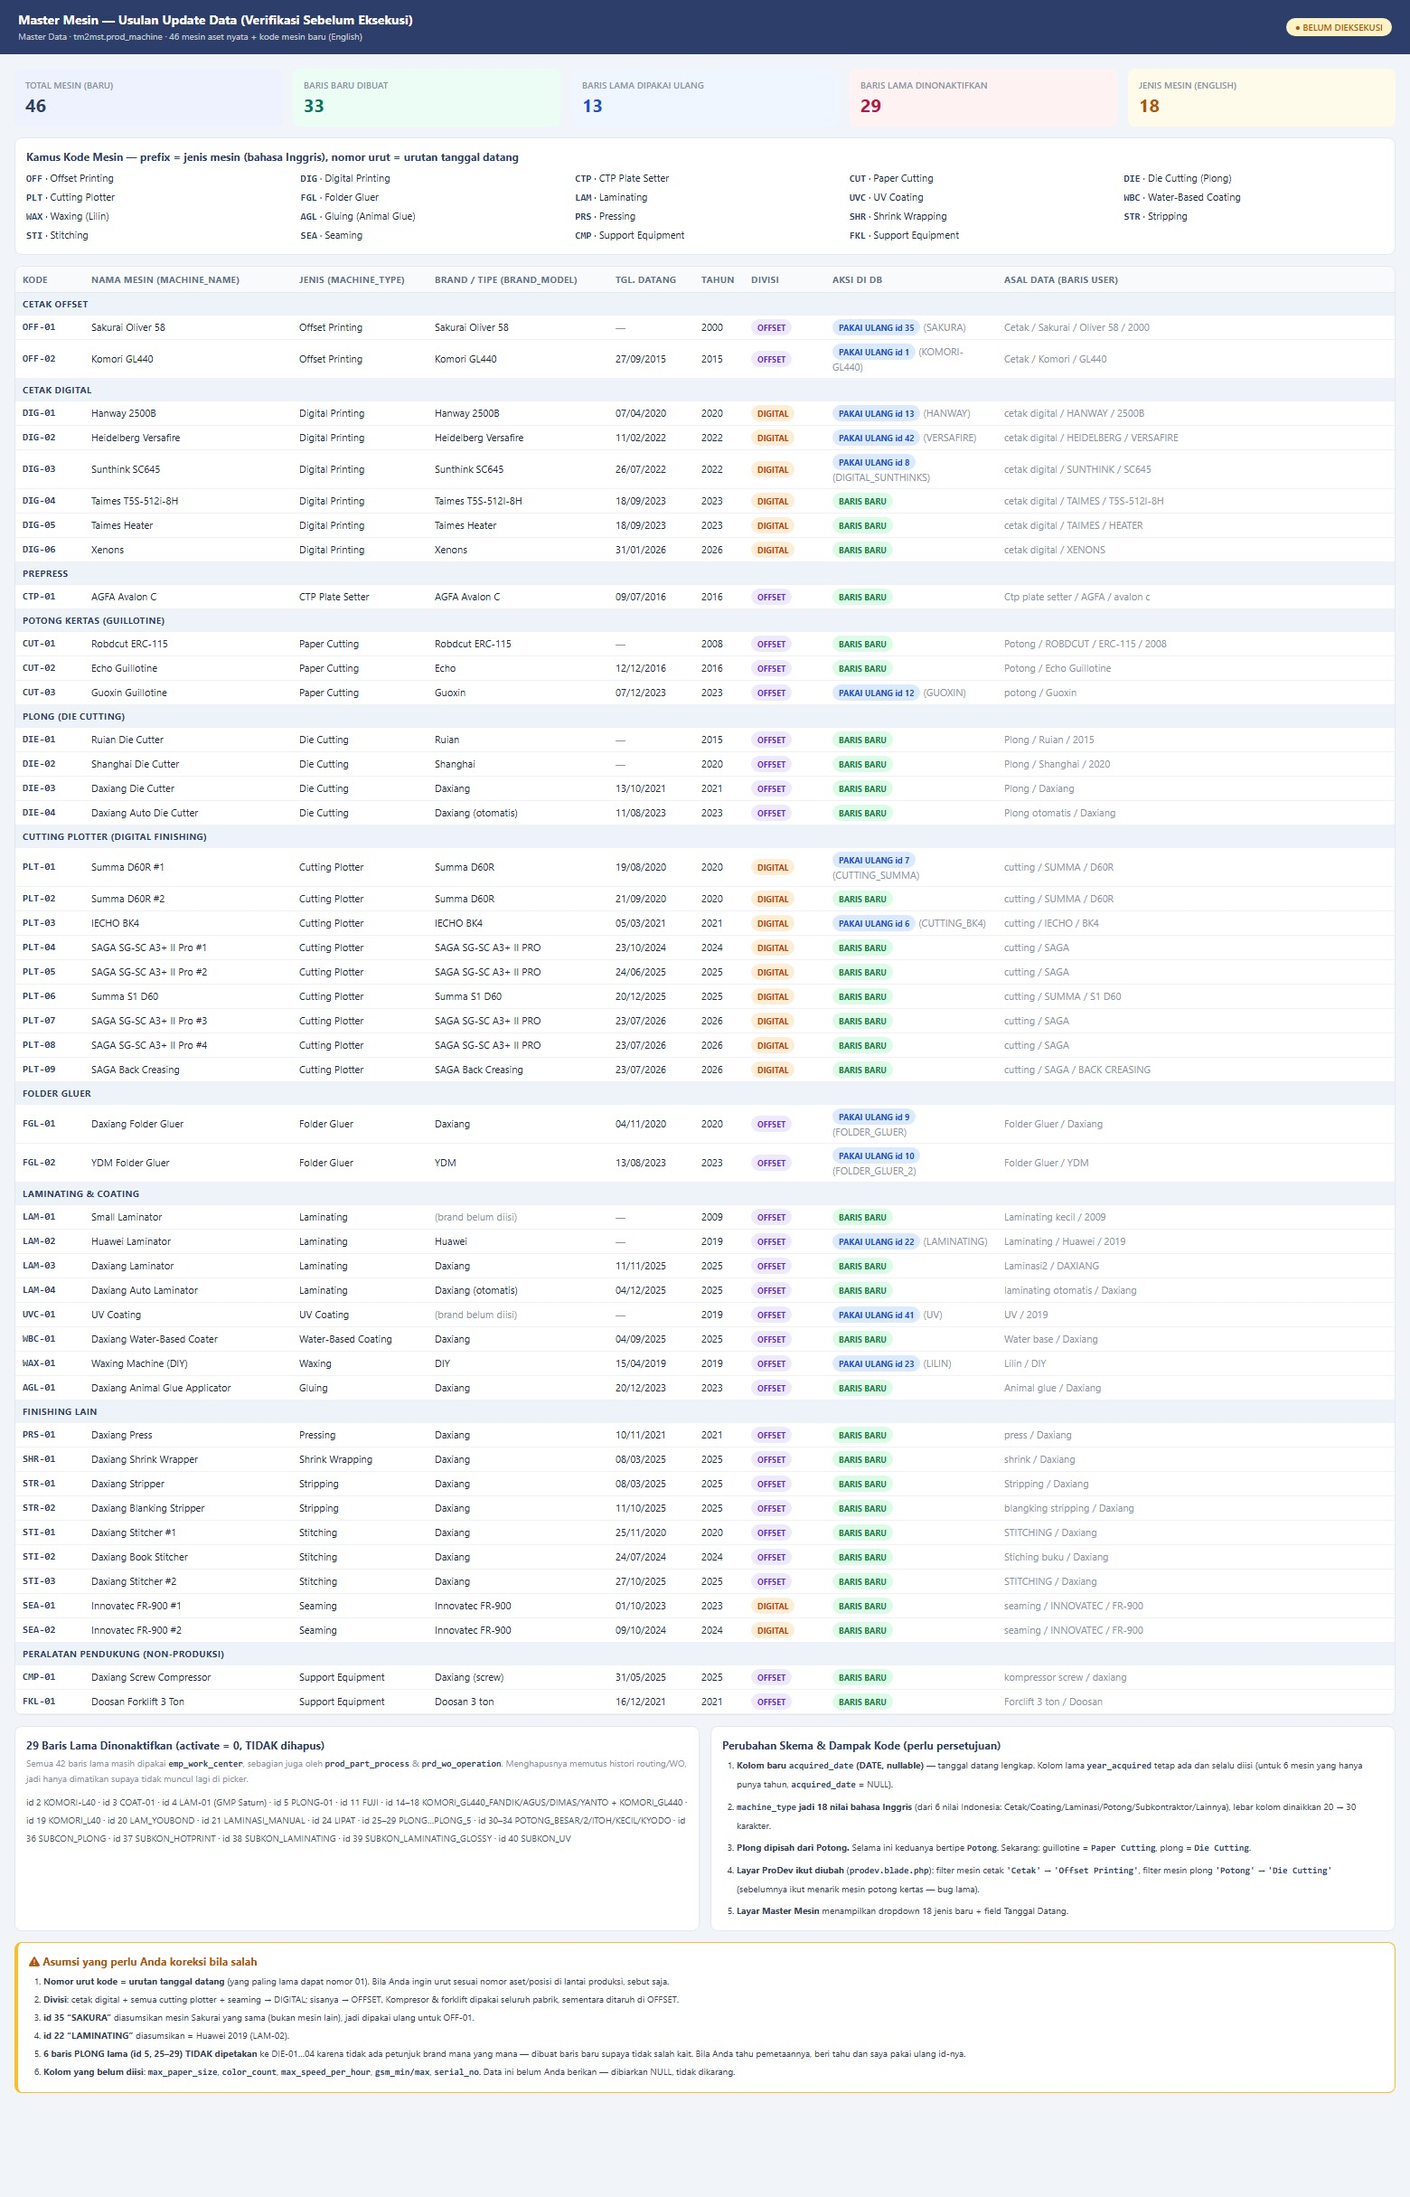
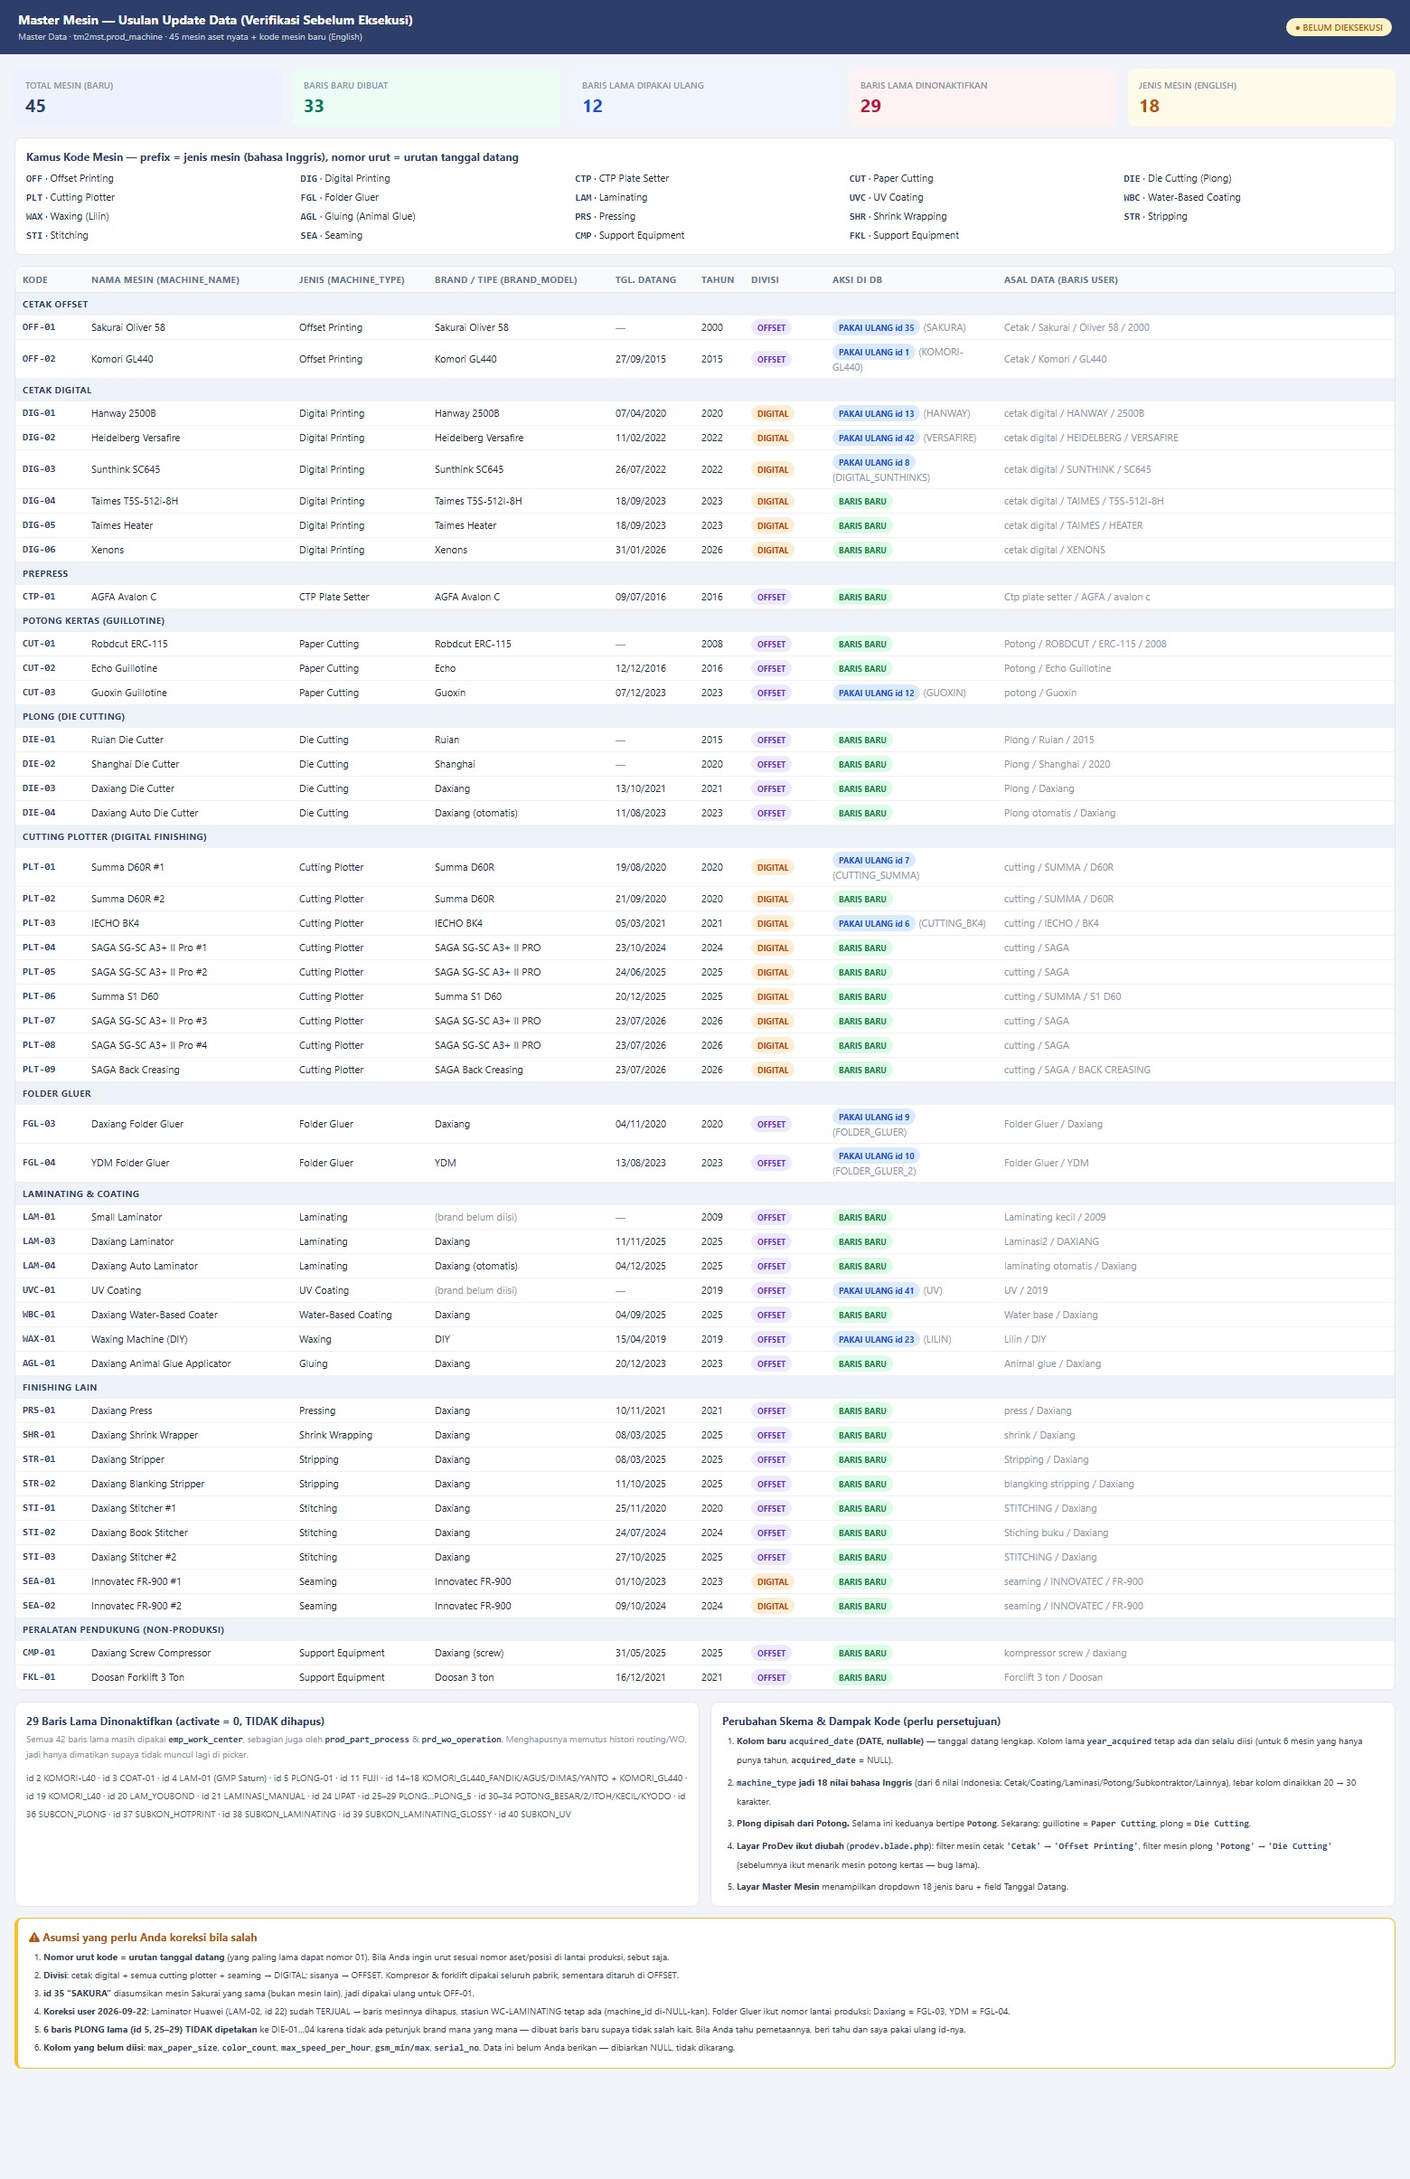
Master Mesin: koreksi Huawei terjual + Folder Gluer FGL-03/04 + kolom grid
- Laminator Huawei (LAM-02) sudah terjual -> baris mesinnya dihapus. Tidak
  ada routing/rate/WO yang merujuknya; 1 emp_work_center (WC-LAMINATING) +
  48 baris emp_shift_roster di-NULL-kan machine_id-nya supaya stasiunnya
  tetap hidup lewat work_center_id. Penomoran LAM lain tidak digeser.
- Folder Gluer ikut nomor lantai produksi: Daxiang FGL-03, YDM FGL-04.
- Grid Master Mesin: tambah kolom Tahun + Divisi (badge OFFSET/DIGITAL)
  menyamakan dengan mockup. Kode tetap di kolom identitas avatar+nama+kode
  sesuai griduistandard.md.
- Mockup acuan docs/mockups/master_mesin_update_2026 ikut disesuaikan.

diff --git a/docs/mockups/master_mesin_update_2026.html b/docs/mockups/master_mesin_update_2026.html
@@ -31,7 +31,7 @@
 <header class="bg-navy text-white px-5 py-3 flex items-center gap-3.5">
   <div>
     <div class="text-sm font-bold">Master Mesin &mdash; Usulan Update Data (Verifikasi Sebelum Eksekusi)</div>
-    <div class="text-[10px] opacity-70">Master Data &middot; tm2mst.prod_machine &middot; 46 mesin aset nyata + kode mesin baru (English)</div>
+    <div class="text-[10px] opacity-70">Master Data &middot; tm2mst.prod_machine &middot; 45 mesin aset nyata + kode mesin baru (English)</div>
   </div>
   <div class="ml-auto flex items-center gap-3">
     <span class="px-2.5 py-0.5 rounded-full text-[10px] font-semibold bg-amber-100 text-amber-700">&#9679; BELUM DIEKSEKUSI</span>
@@ -42,9 +42,9 @@
 
   <!-- Statistik pastel (griduistandard.md) -->
   <div class="grid grid-cols-5 gap-3">
-    <div class="stat bg-[#eef2ff]"><div class="text-[10px] text-muted font-semibold uppercase">Total Mesin (Baru)</div><div class="text-xl font-bold text-navy">46</div></div>
+    <div class="stat bg-[#eef2ff]"><div class="text-[10px] text-muted font-semibold uppercase">Total Mesin (Baru)</div><div class="text-xl font-bold text-navy">45</div></div>
     <div class="stat bg-[#ecfdf5]"><div class="text-[10px] text-muted font-semibold uppercase">Baris Baru Dibuat</div><div class="text-xl font-bold text-emerald-700">33</div></div>
-    <div class="stat bg-[#eff6ff]"><div class="text-[10px] text-muted font-semibold uppercase">Baris Lama Dipakai Ulang</div><div class="text-xl font-bold text-blue-700">13</div></div>
+    <div class="stat bg-[#eff6ff]"><div class="text-[10px] text-muted font-semibold uppercase">Baris Lama Dipakai Ulang</div><div class="text-xl font-bold text-blue-700">12</div></div>
     <div class="stat bg-[#fef2f2]"><div class="text-[10px] text-muted font-semibold uppercase">Baris Lama Dinonaktifkan</div><div class="text-xl font-bold text-rose-700">29</div></div>
     <div class="stat bg-[#fffbeb]"><div class="text-[10px] text-muted font-semibold uppercase">Jenis Mesin (English)</div><div class="text-xl font-bold text-amber-700">18</div></div>
   </div>
@@ -130,12 +130,11 @@
         <tr><td class="code">PLT-09</td><td>SAGA Back Creasing</td><td>Cutting Plotter</td><td>SAGA Back Creasing</td><td>23/07/2026</td><td>2026</td><td><span class="badge b-dig">DIGITAL</span></td><td><span class="badge b-new">BARIS BARU</span></td><td class="text-muted">cutting / SAGA / BACK CREASING</td></tr>
 
         <tr class="grp"><td colspan="9">Folder Gluer</td></tr>
-        <tr><td class="code">FGL-01</td><td>Daxiang Folder Gluer</td><td>Folder Gluer</td><td>Daxiang</td><td>04/11/2020</td><td>2020</td><td><span class="badge b-off">OFFSET</span></td><td><span class="badge b-reuse">PAKAI ULANG id 9</span> <span class="text-muted">(FOLDER_GLUER)</span></td><td class="text-muted">Folder Gluer / Daxiang</td></tr>
-        <tr><td class="code">FGL-02</td><td>YDM Folder Gluer</td><td>Folder Gluer</td><td>YDM</td><td>13/08/2023</td><td>2023</td><td><span class="badge b-off">OFFSET</span></td><td><span class="badge b-reuse">PAKAI ULANG id 10</span> <span class="text-muted">(FOLDER_GLUER_2)</span></td><td class="text-muted">Folder Gluer / YDM</td></tr>
+        <tr><td class="code">FGL-03</td><td>Daxiang Folder Gluer</td><td>Folder Gluer</td><td>Daxiang</td><td>04/11/2020</td><td>2020</td><td><span class="badge b-off">OFFSET</span></td><td><span class="badge b-reuse">PAKAI ULANG id 9</span> <span class="text-muted">(FOLDER_GLUER)</span></td><td class="text-muted">Folder Gluer / Daxiang</td></tr>
+        <tr><td class="code">FGL-04</td><td>YDM Folder Gluer</td><td>Folder Gluer</td><td>YDM</td><td>13/08/2023</td><td>2023</td><td><span class="badge b-off">OFFSET</span></td><td><span class="badge b-reuse">PAKAI ULANG id 10</span> <span class="text-muted">(FOLDER_GLUER_2)</span></td><td class="text-muted">Folder Gluer / YDM</td></tr>
 
         <tr class="grp"><td colspan="9">Laminating &amp; Coating</td></tr>
         <tr><td class="code">LAM-01</td><td>Small Laminator</td><td>Laminating</td><td class="text-muted">(brand belum diisi)</td><td class="text-muted">&mdash;</td><td>2009</td><td><span class="badge b-off">OFFSET</span></td><td><span class="badge b-new">BARIS BARU</span></td><td class="text-muted">Laminating kecil / 2009</td></tr>
-        <tr><td class="code">LAM-02</td><td>Huawei Laminator</td><td>Laminating</td><td>Huawei</td><td class="text-muted">&mdash;</td><td>2019</td><td><span class="badge b-off">OFFSET</span></td><td><span class="badge b-reuse">PAKAI ULANG id 22</span> <span class="text-muted">(LAMINATING)</span></td><td class="text-muted">Laminating / Huawei / 2019</td></tr>
         <tr><td class="code">LAM-03</td><td>Daxiang Laminator</td><td>Laminating</td><td>Daxiang</td><td>11/11/2025</td><td>2025</td><td><span class="badge b-off">OFFSET</span></td><td><span class="badge b-new">BARIS BARU</span></td><td class="text-muted">Laminasi2 / DAXIANG</td></tr>
         <tr><td class="code">LAM-04</td><td>Daxiang Auto Laminator</td><td>Laminating</td><td>Daxiang (otomatis)</td><td>04/12/2025</td><td>2025</td><td><span class="badge b-off">OFFSET</span></td><td><span class="badge b-new">BARIS BARU</span></td><td class="text-muted">laminating otomatis / Daxiang</td></tr>
         <tr><td class="code">UVC-01</td><td>UV Coating</td><td>UV Coating</td><td class="text-muted">(brand belum diisi)</td><td class="text-muted">&mdash;</td><td>2019</td><td><span class="badge b-off">OFFSET</span></td><td><span class="badge b-reuse">PAKAI ULANG id 41</span> <span class="text-muted">(UV)</span></td><td class="text-muted">UV / 2019</td></tr>
@@ -195,7 +194,7 @@
       <li><b>Nomor urut kode = urutan tanggal datang</b> (yang paling lama dapat nomor 01). Bila Anda ingin urut sesuai nomor aset/posisi di lantai produksi, sebut saja.</li>
       <li><b>Divisi</b>: cetak digital + semua cutting plotter + seaming &rarr; DIGITAL; sisanya &rarr; OFFSET. Kompresor &amp; forklift dipakai seluruh pabrik, sementara ditaruh di OFFSET.</li>
       <li><b>id 35 &ldquo;SAKURA&rdquo;</b> diasumsikan mesin Sakurai yang sama (bukan mesin lain), jadi dipakai ulang untuk OFF-01.</li>
-      <li><b>id 22 &ldquo;LAMINATING&rdquo;</b> diasumsikan = Huawei 2019 (LAM-02).</li>
+      <li><b>Koreksi user 2026-09-22</b>: Laminator Huawei (LAM-02, id 22) sudah TERJUAL &rarr; baris mesinnya dihapus, stasiun WC-LAMINATING tetap ada (machine_id di-NULL-kan). Folder Gluer ikut nomor lantai produksi: Daxiang = FGL-03, YDM = FGL-04.</li>
       <li><b>6 baris PLONG lama (id 5, 25&ndash;29) TIDAK dipetakan</b> ke DIE-01&hellip;04 karena tidak ada petunjuk brand mana yang mana &mdash; dibuat baris baru supaya tidak salah kait. Bila Anda tahu pemetaannya, beri tahu dan saya pakai ulang id-nya.</li>
       <li><b>Kolom yang belum diisi</b>: <span class="code">max_paper_size</span>, <span class="code">color_count</span>, <span class="code">max_speed_per_hour</span>, <span class="code">gsm_min/max</span>, <span class="code">serial_no</span>. Data ini belum Anda berikan &mdash; dibiarkan NULL, tidak dikarang.</li>
     </ol>

diff --git a/resources/views/pages/master/machine.blade.php b/resources/views/pages/master/machine.blade.php
@@ -274,9 +274,11 @@ new #[Title('Master Mesin — TELASIH MAKMUR ERP')] class extends Component
                     <thead>
                         <tr>
                             <th class="text-left px-3 py-2 bg-[#fafbfd] text-[#667] text-[11px] uppercase tracking-wide border-b border-[#eef1f5] sticky top-0 z-[1]">Mesin</th>
-                            <th class="text-left px-3 py-2 bg-[#fafbfd] text-[#667] text-[11px] uppercase tracking-wide border-b border-[#eef1f5] sticky top-0 z-[1] w-[110px]">Jenis</th>
+                            <th class="text-left px-3 py-2 bg-[#fafbfd] text-[#667] text-[11px] uppercase tracking-wide border-b border-[#eef1f5] sticky top-0 z-[1] w-[140px]">Jenis</th>
                             <th class="text-left px-3 py-2 bg-[#fafbfd] text-[#667] text-[11px] uppercase tracking-wide border-b border-[#eef1f5] sticky top-0 z-[1]">Merk/Model</th>
                             <th class="text-left px-3 py-2 bg-[#fafbfd] text-[#667] text-[11px] uppercase tracking-wide border-b border-[#eef1f5] sticky top-0 z-[1] w-[100px]">Tgl. Datang</th>
+                            <th class="text-left px-3 py-2 bg-[#fafbfd] text-[#667] text-[11px] uppercase tracking-wide border-b border-[#eef1f5] sticky top-0 z-[1] w-[60px]">Tahun</th>
+                            <th class="text-left px-3 py-2 bg-[#fafbfd] text-[#667] text-[11px] uppercase tracking-wide border-b border-[#eef1f5] sticky top-0 z-[1] w-[90px]">Divisi</th>
                             <th class="text-left px-3 py-2 bg-[#fafbfd] text-[#667] text-[11px] uppercase tracking-wide border-b border-[#eef1f5] sticky top-0 z-[1] w-[80px]">Status</th>
                             <th class="text-right px-3 py-2 bg-[#fafbfd] text-[#667] text-[11px] uppercase tracking-wide border-b border-[#eef1f5] sticky top-0 z-[1] w-[150px]">Aksi</th>
                         </tr>
@@ -288,7 +290,15 @@ new #[Title('Master Mesin — TELASIH MAKMUR ERP')] class extends Component
                                 <td class="px-3 py-2 border-b border-[#eef1f5]">{{ $m->machine_type ?: '—' }}</td>
                                 <td class="px-3 py-2 border-b border-[#eef1f5]">{{ $m->brand_model ?: '—' }}</td>
                                 <td class="px-3 py-2 border-b border-[#eef1f5] whitespace-nowrap">
-                                    {{ $m->acquired_date?->format('d/m/Y') ?: ($m->year_acquired ?: '—') }}
+                                    {{ $m->acquired_date?->format('d/m/Y') ?: '—' }}
+                                </td>
+                                <td class="px-3 py-2 border-b border-[#eef1f5]">{{ $m->year_acquired ?: '—' }}</td>
+                                <td class="px-3 py-2 border-b border-[#eef1f5]">
+                                    @if ($m->division)
+                                        <span class="text-[10px] font-bold px-2 py-0.5 rounded-full inline-block bg-accent-soft text-navy">{{ $m->division->division_code }}</span>
+                                    @else
+                                        —
+                                    @endif
                                 </td>
                                 <td class="px-3 py-2 border-b border-[#eef1f5]">
                                     <span class="text-[10px] font-bold px-2 py-0.5 rounded-full inline-block {{ $m->activate ? 'bg-[#eaf7ee] text-[#1f8a4c]' : 'bg-[#eef0f3] text-[#8a8f98]' }}">{{ $m->activate ? 'AKTIF' : 'NONAKTIF' }}</span>
@@ -301,7 +311,7 @@ new #[Title('Master Mesin — TELASIH MAKMUR ERP')] class extends Component
                                 </td>
                             </tr>
                         @empty
-                            <x-grid.empty-row :colspan="6" message="Tidak ada." />
+                            <x-grid.empty-row :colspan="8" message="Tidak ada." />
                         @endforelse
                     </tbody>
                 </table>

diff --git a/database/migrations/2026_09_22_000001_fix_machine_asset_list_corrections.php b/database/migrations/2026_09_22_000001_fix_machine_asset_list_corrections.php
@@ -1,0 +1,50 @@
+<?php
+
+use Illuminate\Database\Migrations\Migration;
+use Illuminate\Support\Facades\DB;
+
+// Koreksi user atas daftar aset mesin 2026-09-21:
+// 1. Laminator Huawei (LAM-02) sudah TERJUAL -> dihapus (bukan dinonaktifkan;
+//    user eksplisit "dihapus tidak papa"). Tidak ada routing/rate/WO yang
+//    merujuknya; 1 work center + 48 baris roster di-NULL-kan machine_id-nya
+//    (stasiun LAMINATING tetap ada lewat work_center_id, mesinnya saja yang
+//    hilang). Penomoran LAM lain TIDAK digeser -- gap disengaja supaya kode
+//    yang sudah dicatat orang tidak berubah.
+// 2. Folder Gluer ikut nomor mesin di lantai produksi: Daxiang = FGL-03,
+//    YDM = FGL-04 (bukan FGL-01/FGL-02 hasil urut tanggal datang).
+return new class extends Migration
+{
+    public function up(): void
+    {
+        $mst = DB::connection('tm2mst');
+
+        $lam02 = $mst->table('prod_machine')->where('machine_code', 'LAM-02')->value('machine_id');
+        if ($lam02) {
+            $mst->table('emp_work_center')->where('machine_id', $lam02)->update(['machine_id' => null]);
+            $mst->table('emp_shift_roster')->where('machine_id', $lam02)->update(['machine_id' => null]);
+            $mst->table('prod_machine')->where('machine_id', $lam02)->delete();
+        }
+
+        // Tukar lewat kode sementara: FGL-01 -> FGL-03 dan FGL-02 -> FGL-04 aman
+        // dilakukan berurutan (tujuannya belum dipakai), tapi machine_code UNIQUE
+        // jadi urutannya tetap dijaga eksplisit.
+        foreach (['FGL-01' => 'FGL-03', 'FGL-02' => 'FGL-04'] as $from => $to) {
+            $mst->table('prod_machine')->where('machine_code', $from)->update([
+                'machine_code' => $to,
+                'updated_at' => now(),
+                'updated_by' => 'system:asset-list-fix',
+            ]);
+        }
+    }
+
+    // Mesin yang sudah terjual tidak dibuat ulang; hanya kode Folder Gluer
+    // dikembalikan supaya rollback tidak menyisakan kode yang tidak dikenal.
+    public function down(): void
+    {
+        $mst = DB::connection('tm2mst');
+
+        foreach (['FGL-03' => 'FGL-01', 'FGL-04' => 'FGL-02'] as $from => $to) {
+            $mst->table('prod_machine')->where('machine_code', $from)->update(['machine_code' => $to]);
+        }
+    }
+};

diff --git a/docs/LOG_JOB_DONE.md b/docs/LOG_JOB_DONE.md
@@ -96,6 +96,19 @@ lewat JPEG (`docs/mockups/master_mesin_update_2026.jpg`) sebelum ditulis ke DB.
   `ProductionWoGenerationTest` lookup `CETAK-01`→`OFF-02` (CETAK-01 sudah di-rename
   migration 2026-09-17, test-nya ketinggalan). Suite: 138 lulus / 5 gagal, kelimanya
   diverifikasi PRE-EXISTING & tidak terkait mesin (lihat catatan di bawah).
+**Koreksi user 2026-09-22** (migration `2026_09_22_000001_fix_machine_asset_list_corrections`):
+- **Laminator Huawei (LAM-02, id 22) sudah TERJUAL** -> baris mesinnya DIHAPUS (user
+  eksplisit "dihapus tidak papa"). Tidak ada routing/rate/WO yang merujuknya; 1
+  `emp_work_center` (WC-LAMINATING) + 48 baris `emp_shift_roster` di-NULL-kan
+  `machine_id`-nya -- stasiunnya tetap hidup lewat `work_center_id`, cuma mesinnya
+  hilang. Penomoran LAM lain TIDAK digeser (LAM-01/03/04, gap di 02 disengaja supaya
+  kode yang sudah dicatat orang tidak berubah). Total mesin aktif: 46 -> 45.
+- **Folder Gluer ikut nomor lantai produksi**: Daxiang = `FGL-03`, YDM = `FGL-04`
+  (bukan FGL-01/02 hasil urut tanggal datang). FGL-01/02 memang tidak ada.
+- **Kolom grid Master Mesin disamakan dengan mockup** (permintaan user): tambah
+  **Tahun** + **Divisi** (badge OFFSET/DIGITAL). Kode tetap di kolom identitas
+  avatar+nama+kode sesuai `griduistandard.md`, Status & Aksi tetap.
+
 - Sisa yang sengaja TIDAK dikerjakan → `BACKLOG.md` §23 (129 roster + 12 routing + 11
   operasi WO masih menunjuk mesin nonaktif; pemetaan penggantinya butuh keputusan user,
   jangan ditebak) dan §24 (test yang meninggalkan sampah data).
